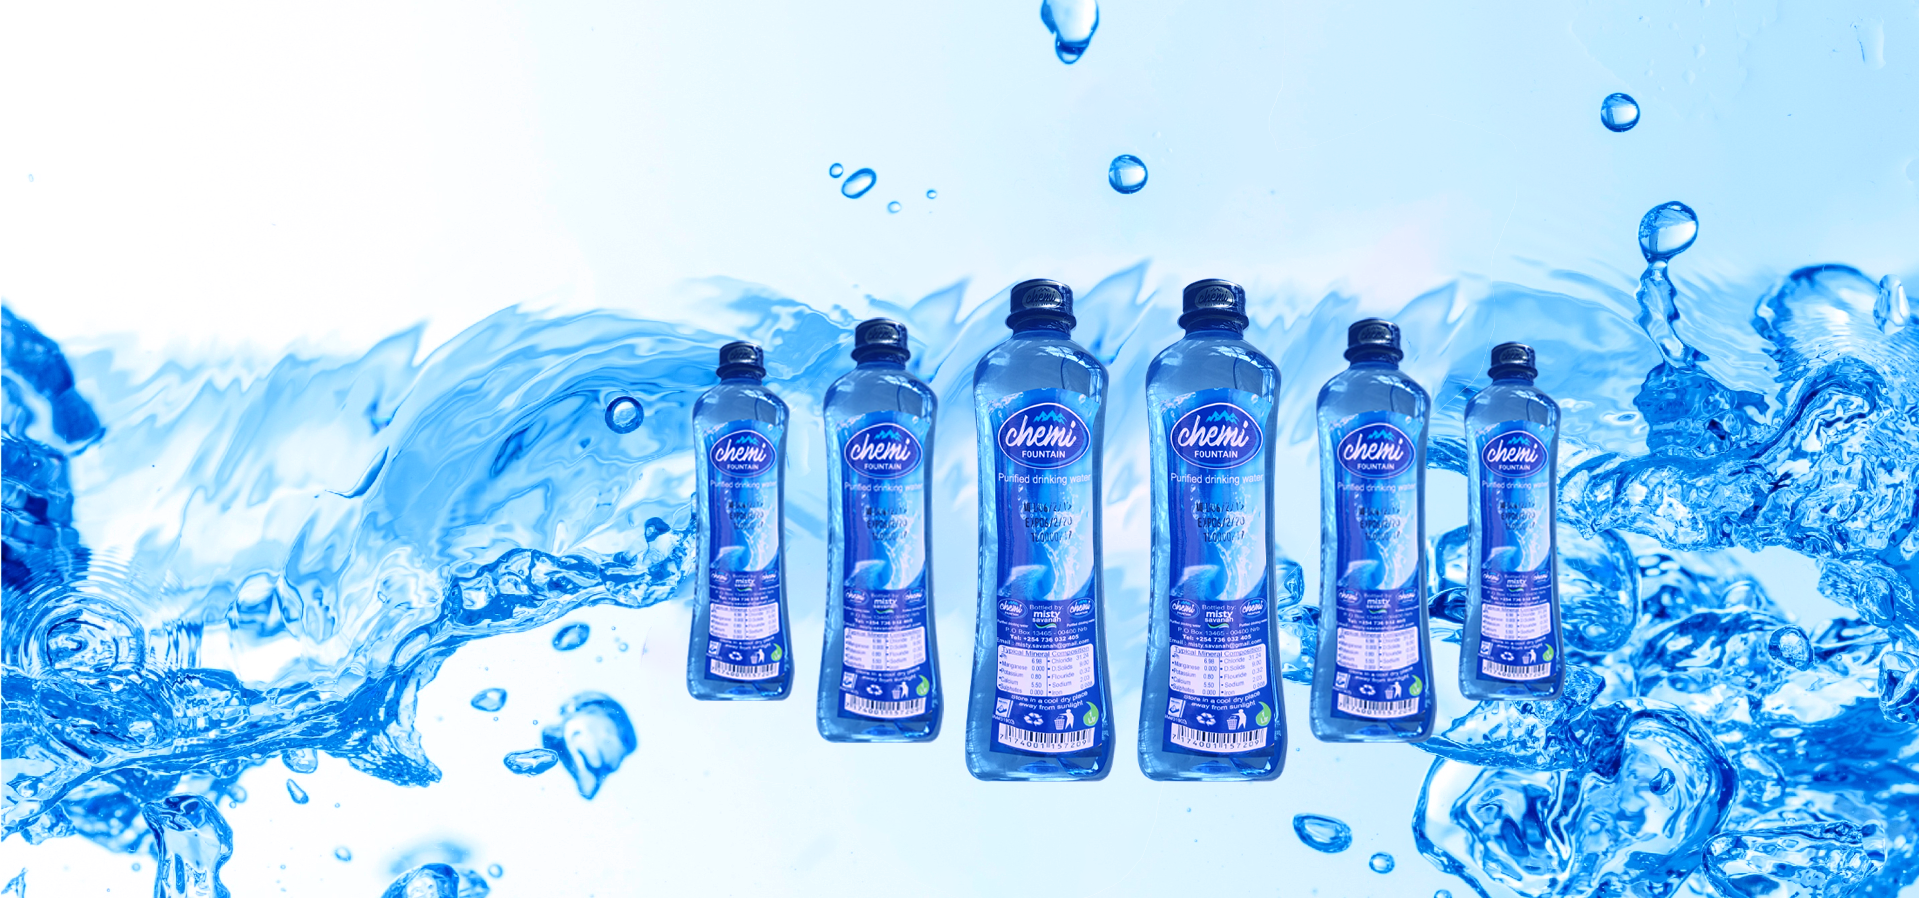
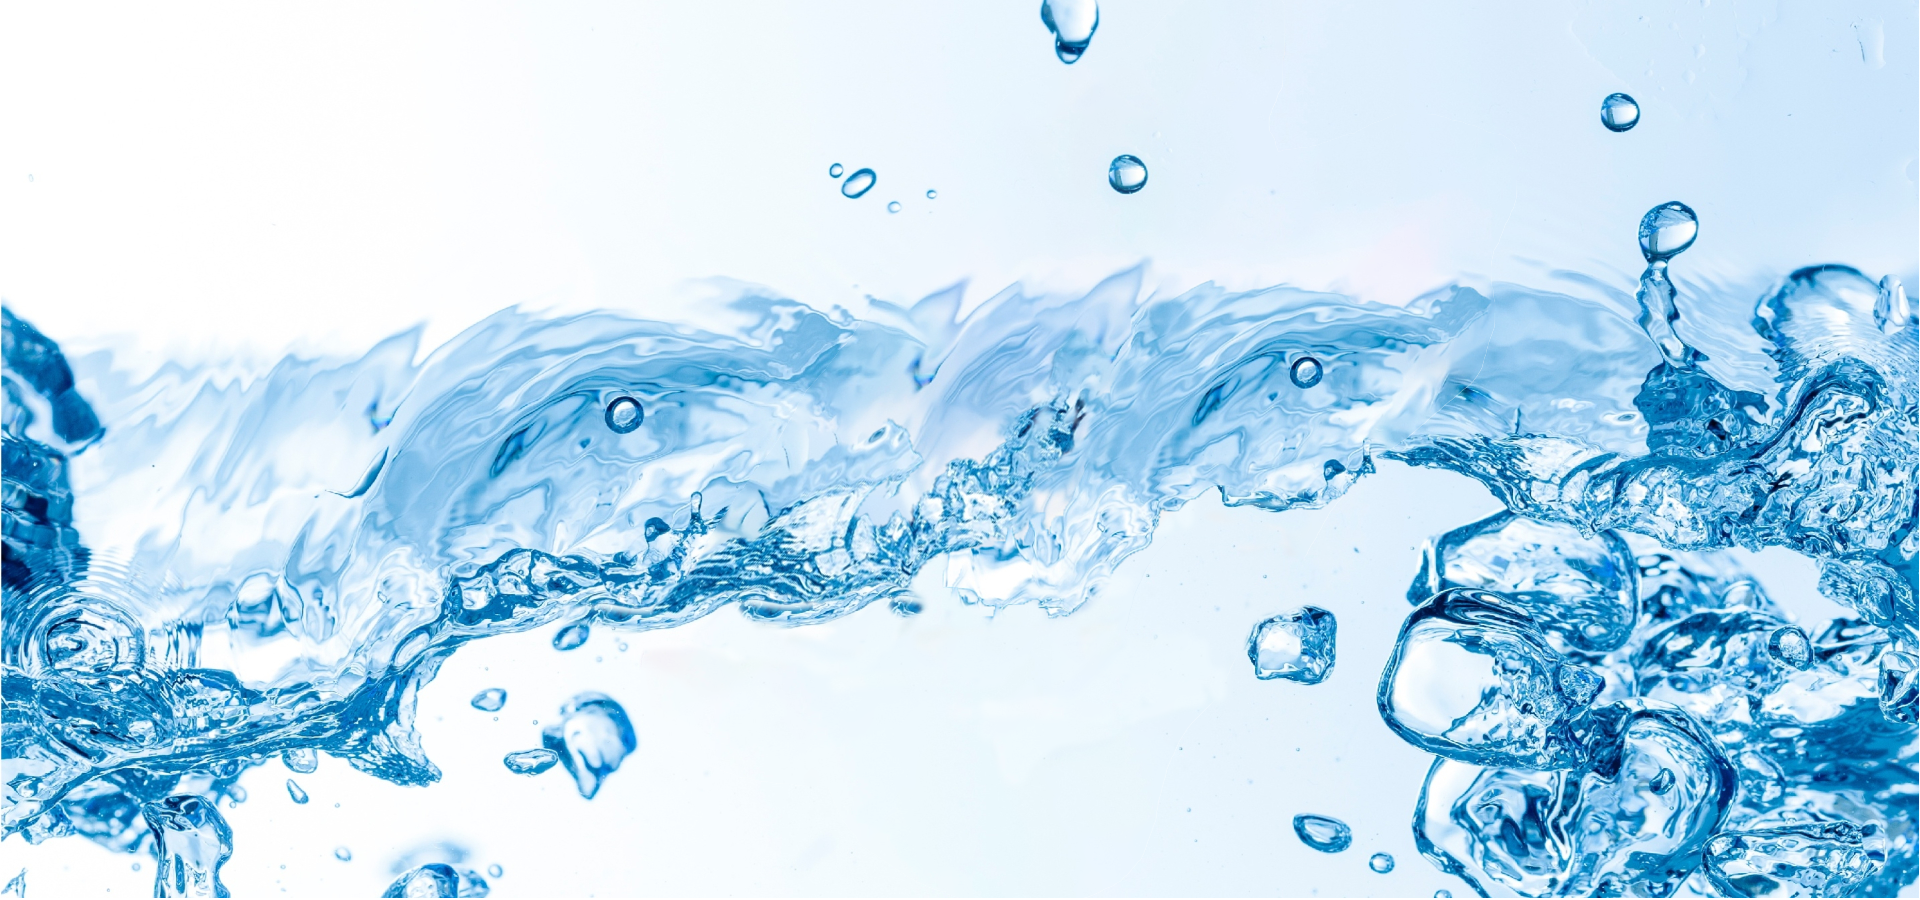
[chore] - debug

diff --git a/index.html b/index.html
@@ -75,9 +75,9 @@
 
 	<!-- start banner Area -->
 	<section class="banner-area relative"id="home">
-		<div class="overlay overlay-bg" ></div>
 		<div class="container-fluid">
 			<div class="row fullscreen d-flex align-items-center justify-content-between">
+				<img class="img-fluid" src="img/chupas.png" alt="">
 				<div class="banner-content col-lg-12 col-md-12">
 					<h1 class="text-uppercase">
 						<span>Chemi</span> PURified <br> drinking water

diff --git a/scss/theme/_home.scss b/scss/theme/_home.scss
@@ -127,7 +127,7 @@
 .banner-content {
     text-align: left;
     @media(max-width: 767px) {
-        padding: 0 10%;
+        // padding: 0 10%;
     }
     h1 {
         font-size: 60px;
